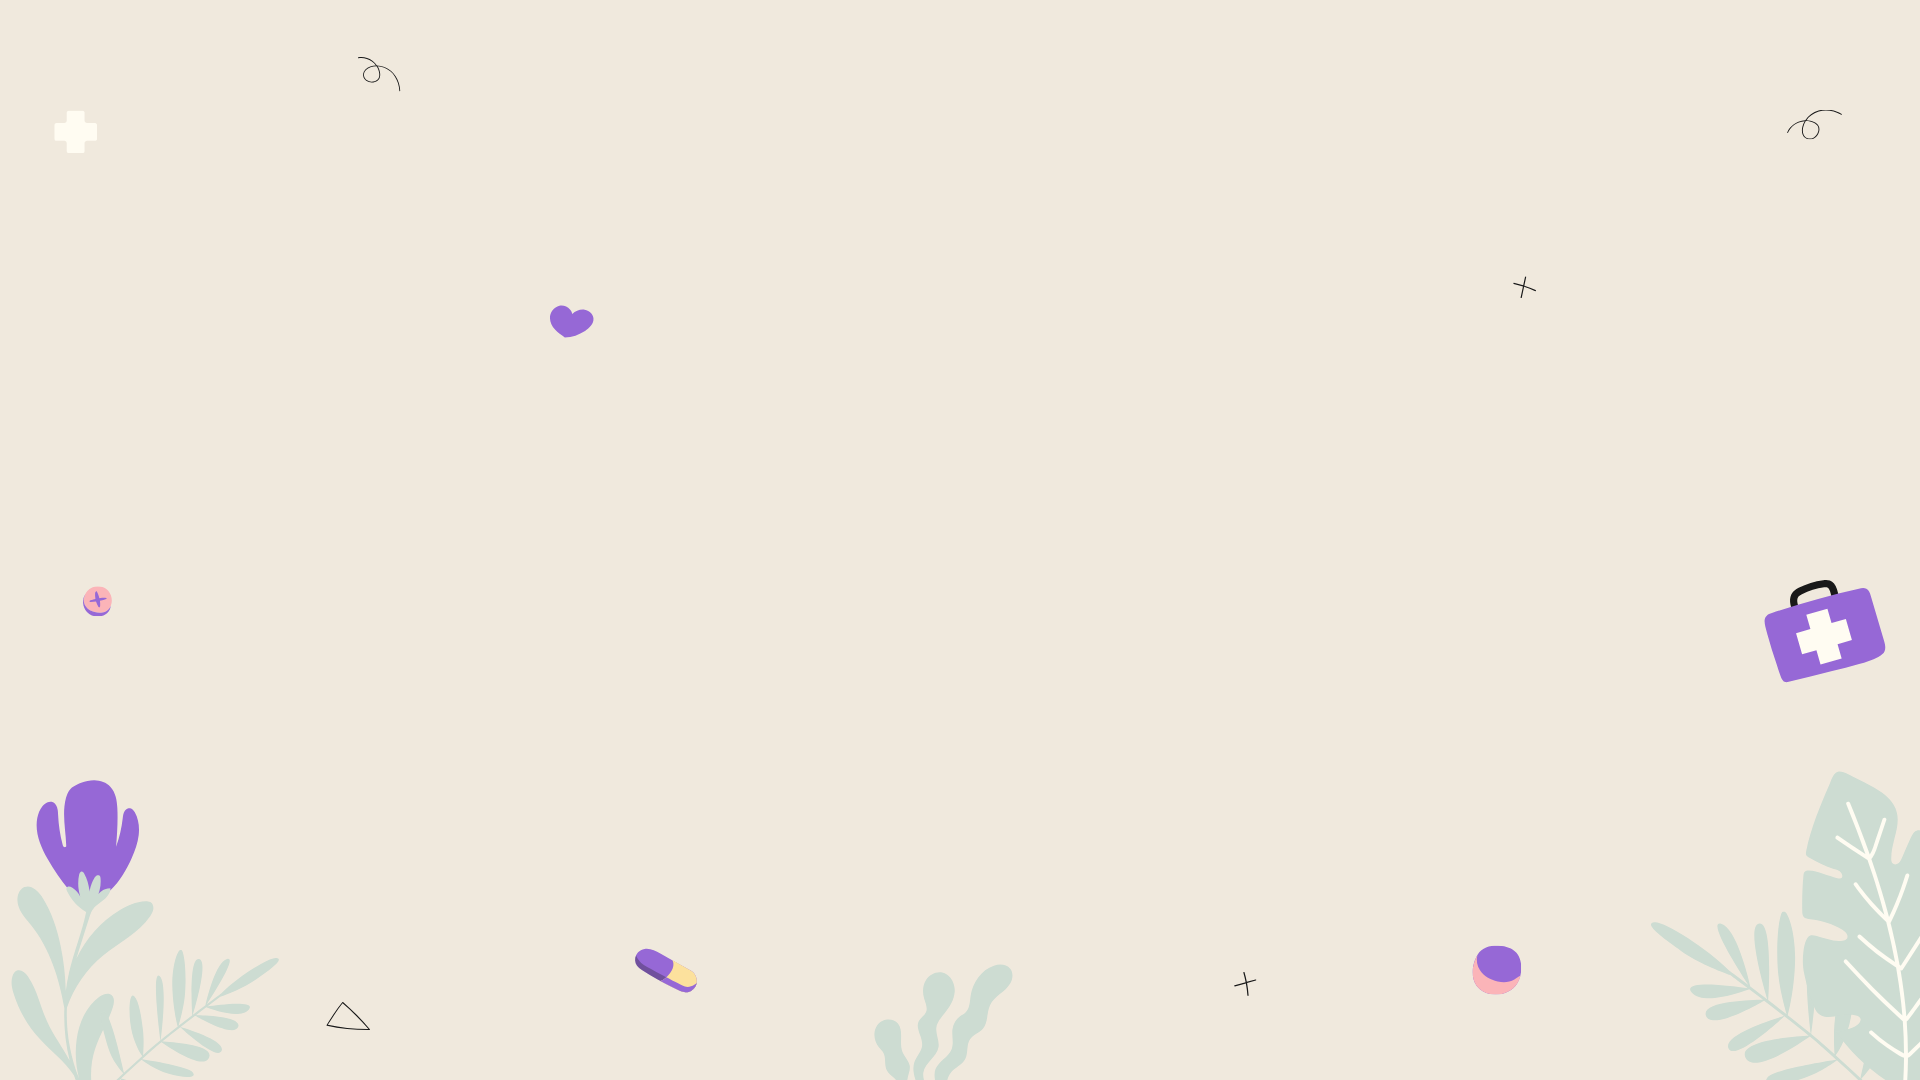
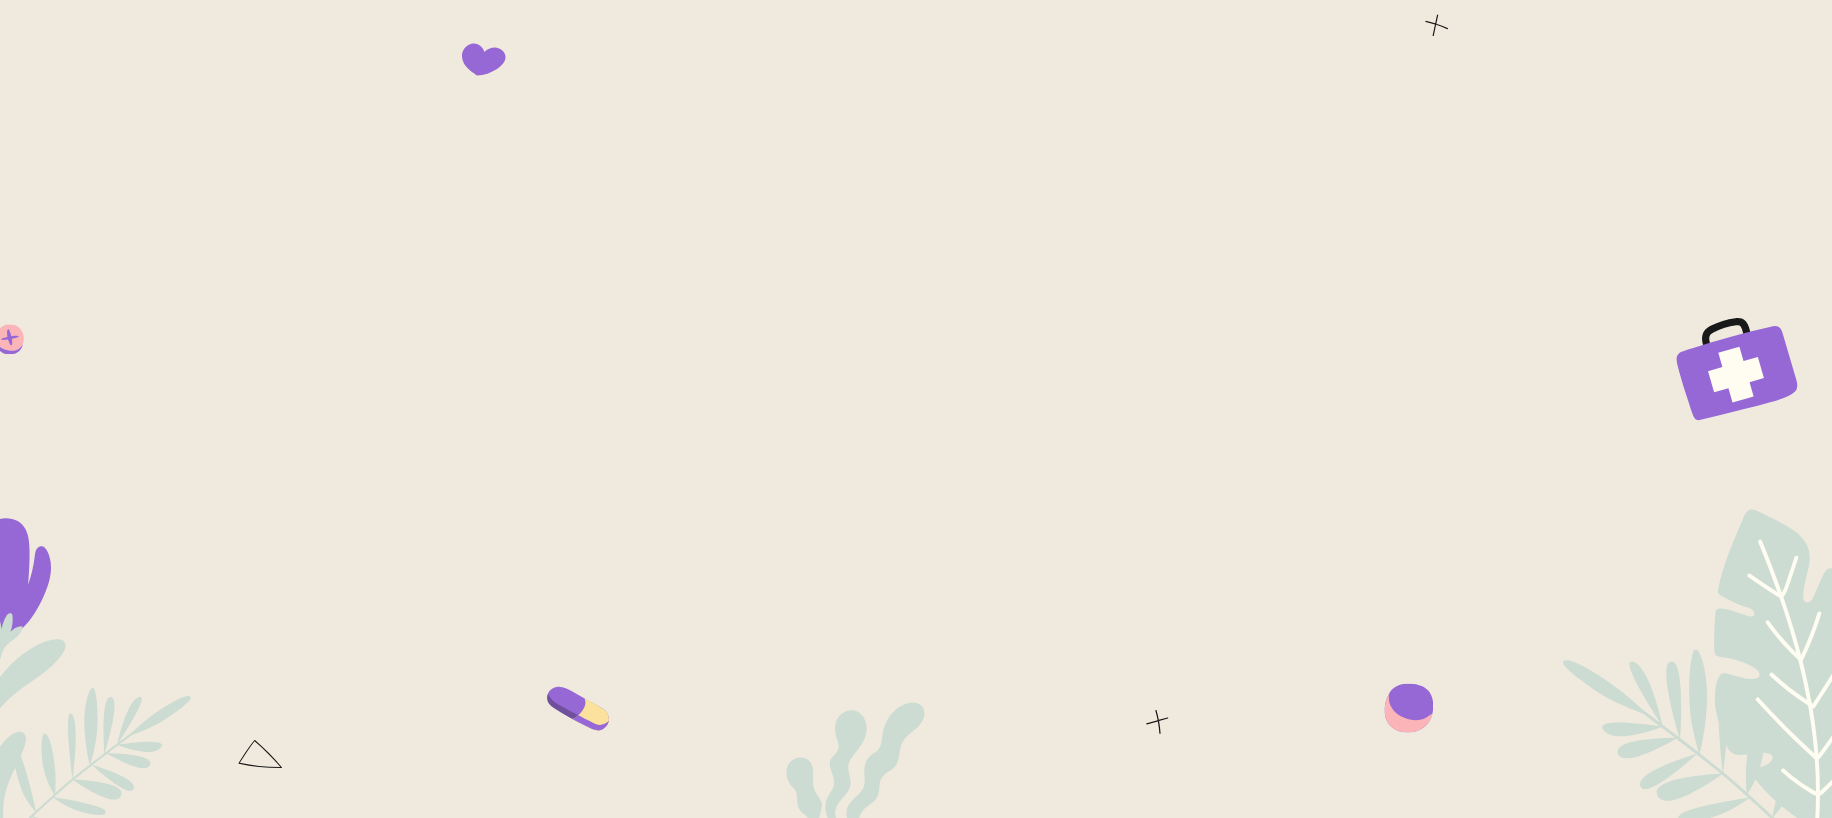
Feat: About.jsx

diff --git a/frontend/src/components/home/About.jsx b/frontend/src/components/home/About.jsx
@@ -1,0 +1,12 @@
+import bgImage from '../../assets/3.png';
+
+export function About() {
+    return (
+        <div className="bg-cover bg-no-repeat bg-center px-7 sm:px-12 lg:px-20 mt-14 sm:mt-16 pb-16" style={{ backgroundImage: `url(${bgImage})` }}>
+            <h1 className="text-[28px] sm:text-4xl text-center font-black mb-4 text-[#8f5cd7] sm:pt-10">Sobre</h1>
+            <p className="text-lg lg:text-xl font-medium leading-relaxed">
+                Na <span className='text-[#6b34b7] font-bold'>Medi</span>, acreditamos que a gestão de medicamentos pode ser tão simples quanto uma tarefa diária. Nosso objetivo é proporcionar uma solução intuitiva e eficiente para ajudá-lo a manter o controle da sua medicação e garantir que você nunca perca uma dose. Com a nossa plataforma, você pode:
+            </p>
+        </div>
+    )
+}

diff --git a/frontend/src/pages/Home.jsx b/frontend/src/pages/Home.jsx
@@ -1,9 +1,11 @@
+import { About } from "../components/home/About";
 import { Hero } from "../components/home/Hero";
 
 export function Home() {
     return (
-        <div>
+        <div className="bg-[#f0e9dd] min-h-screen">
             <Hero/>
+            <About/>
         </div>
     );
 }
